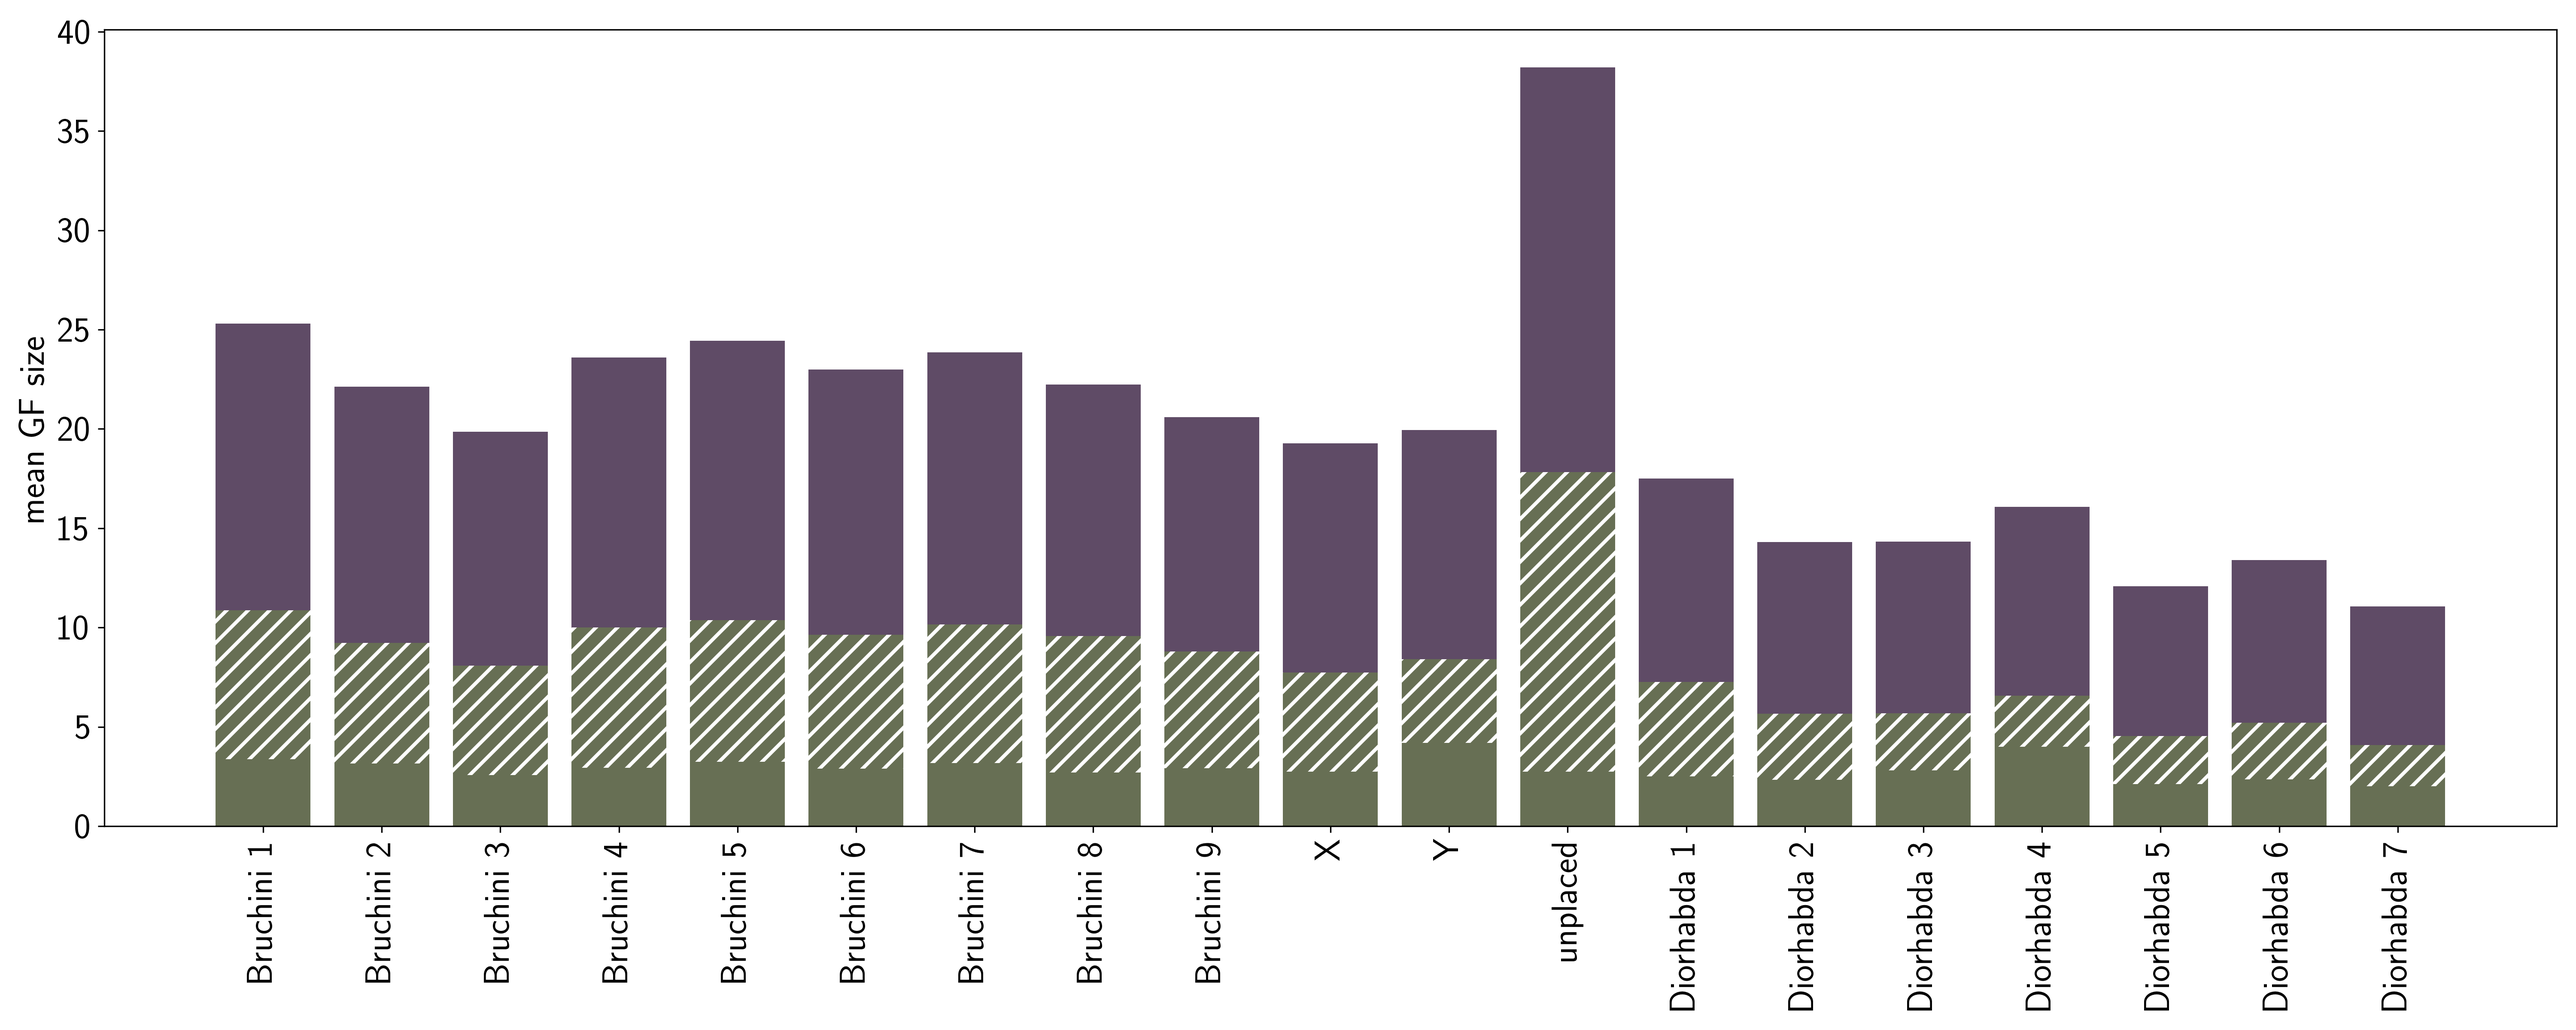
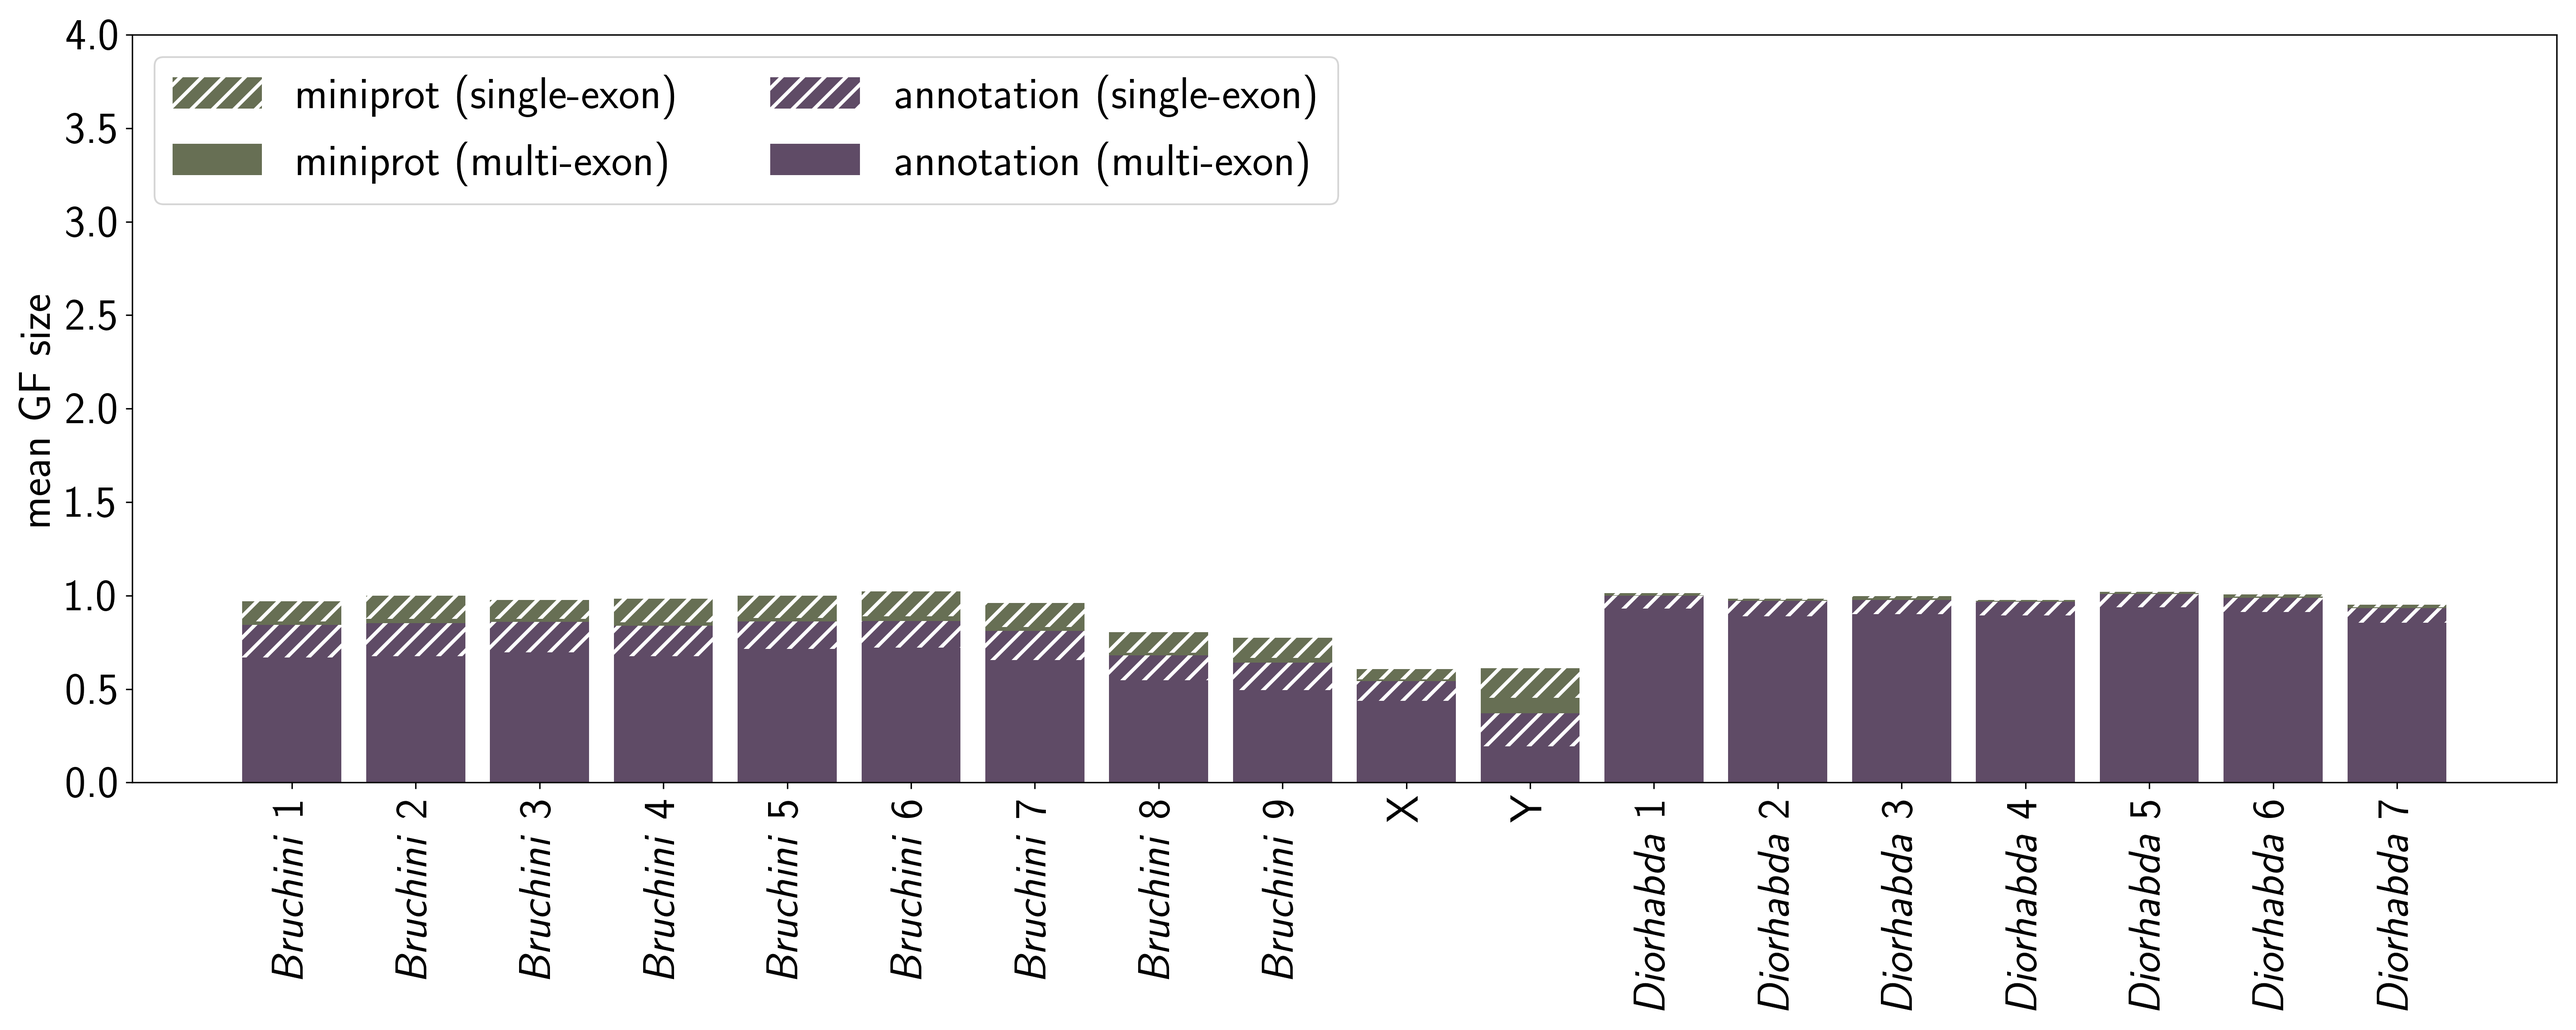
upd

Changed region(s): [[0.0, 0.0625, 0.9662, 0.9688], [0.0312, 0.0, 0.5298, 0.1875], [0.0312, 0.1875, 0.0623, 0.25]]

diff --git a/src/translocation_events.py b/src/translocation_events.py
@@ -7,6 +7,7 @@ from collections import defaultdict
 
 import linkage_groups as lg
 import GF_sizes as OGs
+import parse_gff as gff
 import linkage_groups as lg
 import parse_orthogroups as og
 import plot_gene_counts as data_paths
@@ -70,13 +71,13 @@ def GS_vs_LG_number_correlations(orthogroups, species_order, filename_prefix, ma
             linkage_groups = orthogroup.linkagegroups(species)
             LG_number = len(linkage_groups)
             if lg.LinkageGroup.LGX in linkage_groups and lg.LinkageGroup.LGY not in linkage_groups:
-                X_nums.setdefault(GF_size, [LG_number]).append(LG_number)
+                X_nums.setdefault(GF_size, []).append(LG_number)
             elif lg.LinkageGroup.LGX not in linkage_groups and lg.LinkageGroup.LGY in linkage_groups:
-                Y_nums.setdefault(GF_size, [LG_number]).append(LG_number)
+                Y_nums.setdefault(GF_size, []).append(LG_number)
             elif lg.LinkageGroup.LGX in linkage_groups and lg.LinkageGroup.LGY in linkage_groups:
-                XY_nums.setdefault(GF_size, [LG_number]).append(LG_number)
+                XY_nums.setdefault(GF_size, []).append(LG_number)
             else:
-                A_nums.setdefault(GF_size, [LG_number]).append(LG_number)
+                A_nums.setdefault(GF_size, []).append(LG_number)
         
         data_dict = { # sort by key (GF size) ascending
             "A" : dict(sorted(A_nums.items())),
@@ -121,69 +122,48 @@ def plot_LG_GFsize(orthogroups_dict, outfile_name = ""):
     showing the proportion of which are single-exon
     """
 
-    mini_intronless = defaultdict(list)
-    mini_intronfull = defaultdict(list)
-    annot_intronless = defaultdict(list)
-    annot_intronfull = defaultdict(list)
+    all_LGs = [m for m in lg.LinkageGroup]
+    cats = ["annot_intronfull", "annot_intronless", "mini_intronfull", "mini_intronless"]
+    per_lg = {l: {c: [] for c in cats} for l in all_LGs}
 
     def count_LGid_GF_size(hog_LG_dict):
-        size_LG_dict = {lg_ : 0 for lg_ in hog_LG_dict.keys()}
+        size_LG_dict = {lg_ : 0 for lg_ in hog_LG_dict}
         for lg_ , tr_list in hog_LG_dict.items():
             size_LG_dict[lg_]+= len(tr_list)
         return size_LG_dict
 
     for HOG_id, orthogroup in orthogroups_dict.items():
         # print(f"\n-------{HOG_id}")
-
-        hog_mini_intronless=defaultdict(int)
-        hog_mini_intronfull=defaultdict(int)
-        hog_annot_intronless=defaultdict(int)
-        hog_annot_intronfull=defaultdict(int)
+        counts = defaultdict(lambda: dict.fromkeys(cats, 0))
 
         for OG_member in orthogroup.members:
-            feature_kids=OG_member.gff_feature.child_ids_list
-            assert feature_kids !=None
+
+            ## check for multi-exon
             if OG_member.is_miniprot:
-                assert feature_kids !=None
-                if len(feature_kids)>1:
-                    hog_mini_intronfull.setdefault(OG_member.LG, [OG_member.transcript_ID]).append(OG_member.transcript_ID)
-                else:
-                    hog_mini_intronless.setdefault(OG_member.LG, [OG_member.transcript_ID]).append(OG_member.transcript_ID)
-
+                multi = len(OG_member.gff_feature.child_ids_list) > 1
             else:
-                if len(feature_kids)>1:
-                    hog_annot_intronfull.setdefault(OG_member.LG, [OG_member.transcript_ID]).append(OG_member.transcript_ID)
-                else:
-                    hog_annot_intronless.setdefault(OG_member.LG, [OG_member.transcript_ID]).append(OG_member.transcript_ID)
-            
-            # print(f" - {OG_member.transcript_ID} child features: {len(feature_kids)}: {feature_kids[:30]}")
-        hog_mini_intronless = count_LGid_GF_size(hog_mini_intronless)
-        hog_mini_intronfull = count_LGid_GF_size(hog_mini_intronfull)
-        hog_annot_intronless = count_LGid_GF_size(hog_annot_intronless)
-        hog_annot_intronfull = count_LGid_GF_size(hog_annot_intronfull)
+                multi = not OG_member.gff_feature.is_intronless()
 
-        for lg_, gfsize in hog_mini_intronless.items():
-            mini_intronless.setdefault(lg_, []).append(gfsize)
-        for lg_, gfsize in hog_mini_intronfull.items():
-            mini_intronfull.setdefault(lg_, []).append(gfsize)
-        for lg_, gfsize in hog_annot_intronless.items():
-            annot_intronless.setdefault(lg_, []).append(gfsize)
-        for lg_, gfsize in hog_annot_intronfull.items():
-            annot_intronfull.setdefault(lg_, []).append(gfsize)
+            cat = ("mini" if OG_member.is_miniprot else "annot") + ("_intronfull" if multi else "_intronless")
+            counts[OG_member.LG][cat] += 1
+        
+        for l, c in counts.items():
+            for k in cats:
+                per_lg[l][k].append(c[k])
+
+        # if HOG_id== "N0.HOG0000004":
+        #     break
 
     if outfile_name == "":
-        return dict(mini_intronless),dict(mini_intronfull),dict(annot_intronless),dict(annot_intronfull)
+        return dict(per_lg)
+    
     else:
         lw = 2
-        fs = 20
+        fs = 25
         ymax_factor = 1.25
+        plot_LGs = [l for l in all_LGs if l != lg.LinkageGroup.LGU]
 
-        vals_dict = {
-            "mini_intronfull" : dict(mini_intronfull),
-            "mini_intronless" : dict(mini_intronless),
-            "annot_intronfull" : dict(annot_intronfull),
-            "annot_intronless" : dict(annot_intronless),
-        }
+        vals_dict = {c : [mean(per_lg[l][c]) for l in plot_LGs] for c in cats}
         colors = {
             "mini_intronfull" : "#676F54", # dusty olive
             "mini_intronless" : "#676F54", # dusty olive
@@ -213,25 +193,24 @@ def plot_LG_GFsize(orthogroups_dict, outfile_name = ""):
 
         fig, ax = plt.subplots(1, 1, figsize=(20, 8))
 
-        all_LGs_ = mini_intronless.keys() | mini_intronfull.keys() | annot_intronless.keys() | annot_intronfull.keys()
-        all_LGs = [m for m in lg.LinkageGroup if m in all_LGs_]
-        x_coord = range(len(all_LGs))
+        x_coord = range(len(plot_LGs))
         print(all_LGs)
 
         prev = [0 for x in x_coord]
         for category,vals in vals_dict.items():
-            yval_ = [mean(vals[lg_]) if lg_ in vals else np.nan for lg_ in all_LGs]
-            yval = [y+prev[i] for i,y in enumerate(yval_)]
-            yval_str =[f"{lg.LG_names[lg_]}:{mean(vals[lg_]):.3f}" if lg_ in vals else np.nan for lg_ in all_LGs]
-            print(f"--{category}-- {yval_str}\n")
+            # print(f"{category} -- {vals}\n\n\n")
+            ### TODO implement species division here when everything else works
+            yval = [vals[i]/lg.LG_species_numbers[lg_] for i,lg_ in enumerate(plot_LGs)]
+            
+            yval_str =[f"{lg.LG_names[lg_]} - {yval[i]:.3f}" for i,lg_ in enumerate(plot_LGs)]
+            print(f"--{category}-- \n{yval_str}\n")
 
             ax.bar(x_coord, yval, bottom=prev, label=leg_labels[category], color= colors[category], hatch=hatching[category])
-            prev = [v if np.isnan(v)==False else prev[i] for i,v in enumerate(yval)]
+            prev = [v+ prev[i] for i,v in enumerate(yval)]
 
         ax.tick_params(axis='x', labelsize=fs)
         ax.tick_params(axis='y', labelsize=fs)
-        # xtick_labels = [lg.LG_names[lg_].replace("Bruchini", "\\textit{{{Bruchini}}}") if "Bruchini" in lg.LG_names[lg_] else lg.LG_names[lg_].replace("Diorhabda", "\\textit{{{Diorhabda}}}") for lg_ in all_LGs]
-        xtick_labels = [lg.LG_names[lg_] for lg_ in all_LGs]
+        xtick_labels = [lg.LG_names[lg_].replace("Bruchini", "\\textit{{{Bruchini}}}") if "Bruchini" in lg.LG_names[lg_] else lg.LG_names[lg_].replace("Diorhabda", "\\textit{{{Diorhabda}}}") for lg_ in plot_LGs]
         ax.set_xticks(ticks = x_coord, labels = xtick_labels, rotation=90, fontsize=fs)
         ax.set_ylabel('mean GF size', fontsize=fs)
 
@@ -239,13 +218,15 @@ def plot_LG_GFsize(orthogroups_dict, outfile_name = ""):
         plt.rcParams.update({'hatch.color': "#3f3832ff"})
         dashed_handle = mpatches.Patch(hatch = "//", alpha = 0.0)
         dashed_label = "proportion of genes \nthat are single-exon"
+        handles, labels = ax.get_legend_handles_labels()
+        ax.legend(handles[::-1], labels[::-1], fontsize=fs, ncol=2, loc='upper left')
+        ax.set_ylim(0,3)
     
         plt.tight_layout()
         plt.savefig(outfile_name, dpi = 300, transparent = True)# , bbox_inches='tight')
         print("Figure saved in the current working directory directory as: "+outfile_name)
 
-
-        return mini_intronless,mini_intronfull,annot_intronless,annot_intronfull
+        return dict(per_lg)
 
 if __name__ == "__main__":
     
@@ -257,17 +238,19 @@ if __name__ == "__main__":
     unassigned_genes_path = f"{data_dir}/unassigned_genes.tsv" 
     annot_dict = data_paths.annotations_dict(username=username)
     miniprot_dict = data_paths.get_miniprot_paths(username=username)
-    species_order = [
-        "A_obtectus",
-        "C_maculatus",
-        "C_chinensis",
-        "B_siliquastri",
-        "B_varius",
-        "D_carinulata",
-        "D_sublineata"
-    ]
+
 
     if True:
+        species_order = [
+            "A_obtectus",
+            "C_maculatus",
+            # "C_chinensis",
+            "B_siliquastri",
+            "B_varius",
+            "D_carinulata",
+            "D_sublineata"
+        ]
+
         orthogroups = og.parse_orthogroups_class(
             filepath=orthogroups_file,
             annot_species=species_order,
@@ -276,7 +259,7 @@ if __name__ == "__main__":
             unassigned_genes_path=unassigned_genes_path,
             miniprot_paths_dict=miniprot_dict)
 
-        # print(orthogroups["N0.HOG0000056"])
+        print(orthogroups["N0.HOG0000056"])
         
     ### plot Genome size vs. presence on linkage group scatter    
     if False:
@@ -286,13 +269,12 @@ if __name__ == "__main__":
         # !!! remove duplicate cds from aobt bvar cchi cmac with 
         # sed '/^[^#\t]*\t[^\t]*\tCDS\t/d'
         
-        mini_intronless,mini_intronfull,annot_intronless,annot_intronfull = plot_LG_GFsize(
-            orthogroups_dict = orthogroups, 
+        c = plot_LG_GFsize(
+            orthogroups_dict = orthogroups,
             outfile_name=f"{data_dir}/GFsize_on_linkagegroups.png"
         )
-        ## TODO no intronless annotations?
+        # ## TODO no intronless annotations?
         ## TODO what exactly am i computing even, the mean GF size seems absurd???
-        print(f"\nannot_intronless.keys()")
-        print(annot_intronless.keys())
+        # print(c)
     if False:
         earliest_duplications, unassigned_geneIDs = og.parse_duplications(duplications_path=f"{data_dir}/Duplications.tsv", orthogroups_path=orthogroups_file, min_support=0.5)

diff --git a/src/parse_gff.py b/src/parse_gff.py
@@ -178,7 +178,7 @@ class FeatureCategory(str,Enum):
 
 string_to_category = { # define aliases when some strings should map to the same feature category
     "gene": FeatureCategory.Gene,
-    "pseudogene": FeatureCategory.Transcript,
+    "pseudogene": FeatureCategory.Gene,
     "sequence_feature": FeatureCategory.Region,
     "mobile_genetic_element": FeatureCategory.Region,
     "CDS": FeatureCategory.CDS,
@@ -243,12 +243,21 @@ class Feature:
         # since they're not always present
         self.parent_id = parent_id 
         self.child_ids_list = []
+        self.child_ids_dict = {}
 
-    def add_child(self, child_id:str):
+    def add_child(self, child_id:str, child_category=None):
         self.child_ids_list.append(child_id)
+        if child_category != None:
+            self.child_ids_dict[child_id] = child_category
     
     def length(self):
         return abs(self.start-self.end)
+
+    def is_intronless(self):
+        if self.category==FeatureCategory.Transcript:
+            return len([c for c in self.child_ids_dict.values() if c == FeatureCategory.Exon])==1
+        else:
+            return False
 
     def __repr__(self):
         return "Feature"
@@ -264,7 +273,7 @@ class Feature:
         )
 
 
-def parse_gff3_general(filepath:str, verbose = True, only_genes = False, keep_feature_category=None, gtf=False, mRNA_top_feature=False):
+def parse_gff3_general(filepath:str, verbose = True, only_genes = False, keep_feature_category=None, gtf=False, mRNA_top_feature=False, no_start_stop=True):
     """
     Read a gff file specified in the filepath and parse it into a dictionary of Feature IDs and instances of the Feature class
     {
@@ -316,6 +325,9 @@ def parse_gff3_general(filepath:str, verbose = True, only_genes = False, keep_fe
 
             category = categorize_string(category_)
 
+            if no_start_stop:
+                if category==FeatureCategory.Start_codon or category==FeatureCategory.Stop_codon:
+                    continue
             if gtf:
                 if category == FeatureCategory.Gene or category==FeatureCategory.Transcript:
                     pass
@@ -381,7 +393,7 @@ def parse_gff3_general(filepath:str, verbose = True, only_genes = False, keep_fe
                 if mRNA_top_feature and category == FeatureCategory.Transcript:
                     parent_id = None
                 elif parent_id in genome_annotation:
-                    genome_annotation[parent_id].add_child(attributes["ID"])
+                    genome_annotation[parent_id].add_child(child_id = attributes["ID"], child_category=category)
                     test_break = True
                 
                 else:

diff --git a/src/parse_orthogroups.py b/src/parse_orthogroups.py
@@ -190,18 +190,26 @@ class OrthoGroup:
         for m in self.members:
             outlink[m.species].append(m.LG)
         outstr = "\n  * ".join([f"{s} ({len(lglist)}) : {set(lglist)}" for s,lglist in outlink.items()])
+        outids = [f"{m.species}:{m.transcript_ID} ({len(m.gff_feature.child_ids_list)}) : {m.gff_feature.child_ids_list}" for m in self.members if m.is_miniprot==False]
+        outids_str = "\n\t - ".join(outids)
+        
 
         minilink = {s: [] for s in self.species()}
         for m in self.miniprot_members():
             minilink[m.species].append(m.gff_feature.ID)
-        ministr = "\n  - ".join([f"{s} ({len(lglist)}) : {set(lglist)}" for s,lglist in minilink.items()])
+        ministr = "\n\t - ".join([f"{s} ({len(lglist)}) : {set(lglist)}" for s,lglist in minilink.items()])
+        miniids = [f"{m.species}:{m.transcript_ID} ({len(m.gff_feature.child_ids_list)}) : {m.gff_feature.child_ids_list}" for m in self.members if m.is_miniprot]
+        miniids_str = "\n\t - ".join(miniids)
+        
         return (
 f"""
 Orthogroup {self.OG_id} has {self.OG_size()} members and is present on {len(self.species())} species ({self.species()})
 it is on {len(self.linkagegroups())} linkage groups ({self.linkagegroups()})
 in these species:
   * {outstr}
-with {len(self.miniprot_members())} being miniprot alignments:\n  - {ministr}
+with {len(self.miniprot_members())} being miniprot alignments:\n\t - {ministr}
+The child features for the annotated genes are this:\n\t - {outids_str}
+The child features for the miniprot alignments are this:\n\t - {miniids_str}
 """
         )
     def __repr__(self):
@@ -224,8 +232,10 @@ def parse_orthogroups_class(filepath, annot_species, annotations_dict, unassigne
         # print(annot_HOG_dict["OG0014394"])
 
     print(f"----- read gff annotations -----")
-    # annot_gff_dict = { species : gff.parse_gff3_general(annotations_dict[species], keep_feature_category=gff.FeatureCategory.Transcript, verbose=False) for species in annot_species}
-    annot_gff_dict = { species : gff.parse_gff3_general(annotations_dict[species], mRNA_top_feature=True, verbose=False) for species in annot_species}
+    if add_gff_feature:
+        annot_gff_dict = { species : gff.parse_gff3_general(annotations_dict[species], verbose=False, no_start_stop=True) for species in annot_species}
+    else:
+        annot_gff_dict = { species : gff.parse_gff3_general(annotations_dict[species], keep_feature_category=gff.FeatureCategory.Transcript, verbose=False) for species in annot_species}
     print(f"--------------------------------")
 
 

diff --git a/src/linkage_groups.py b/src/linkage_groups.py
@@ -51,6 +51,27 @@ LG_names = {
     LinkageGroup.DLG7 : "Diorhabda 7",
 }
 
+LG_species_numbers = {
+    LinkageGroup.BLG1 : 3, ## Cchi gets not assigned to any of them 
+    LinkageGroup.BLG2 : 3,
+    LinkageGroup.BLG3 : 3,
+    LinkageGroup.BLG4 : 3,
+    LinkageGroup.BLG5 : 3,
+    LinkageGroup.BLG6 : 3,
+    LinkageGroup.BLG7 : 3,
+    LinkageGroup.BLG8 : 3,
+    LinkageGroup.BLG9 : 3,
+    LinkageGroup.LGX : 5,
+    LinkageGroup.LGY : 5,
+    LinkageGroup.DLG1 : 2,
+    LinkageGroup.DLG2 : 2,
+    LinkageGroup.DLG3 : 2,
+    LinkageGroup.DLG4 : 2,
+    LinkageGroup.DLG5 : 2,
+    LinkageGroup.DLG6 : 2,
+    LinkageGroup.DLG7 : 2,
+}
+
 
 contigname_to_linkagegroup = {
     # B. siliquastri
